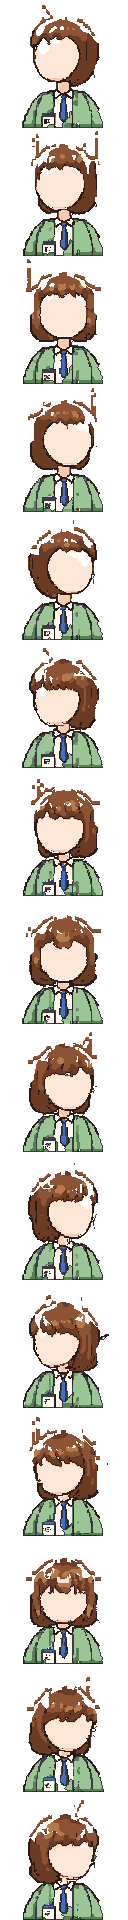
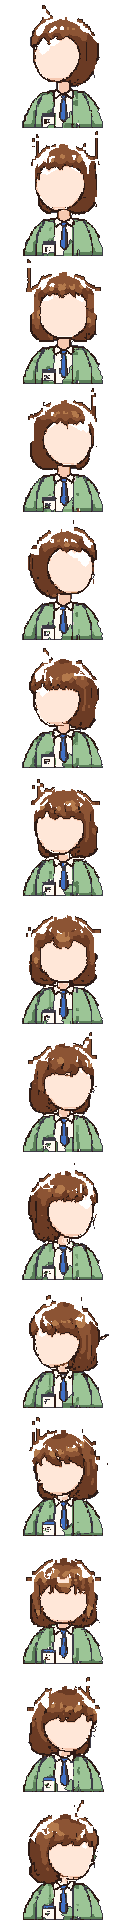
fox65: polish ear bases (outlined hairline, strand base/shadow shading), remove ear specks/slits; cache v=20261021-fox65c

diff --git a/js/app.js b/js/app.js
@@ -8,9 +8,9 @@ const canvas = $('c'), ctx = canvas.getContext('2d');
 const video = $('video');
 const off = document.createElement('canvas'), octx = off.getContext('2d');      // 원본 해상도 합성
 const hc = document.createElement('canvas'), hctx = hc.getContext('2d');        // 머리 그룹 (롤 회전용)
-import { mic, startMic, micTick } from './mic.js?v=20261021-fox65b';
-import { createTail, tailStep } from './tail.js?v=20261021-fox65b';
-import { createEars, earStep } from './ears.js?v=20261021-fox65b';
+import { mic, startMic, micTick } from './mic.js?v=20261021-fox65c';
+import { createTail, tailStep } from './tail.js?v=20261021-fox65c';
+import { createEars, earStep } from './ears.js?v=20261021-fox65c';
 const earSt = createEars(); let earLast = 0;
 const CHARS = { fox65: 'assets/fox65/', fox64: 'assets/fox64/', fox63: 'assets/fox63/', fox62: 'assets/fox62/', fox61: 'assets/fox61/', fox6: 'assets/fox6/', fox53: 'assets/fox53/', fox52: 'assets/fox52/', fox51: 'assets/fox51/', fox5: 'assets/fox5/', fox4: 'assets/fox4/', fox3: 'assets/fox3/', fox2: 'assets/fox2/', test: 'assets/test/' };
 let ch = null; // {key, base, m, img, S}

diff --git a/index.html b/index.html
@@ -1,6 +1,6 @@
 <!doctype html><html lang="ko"><head><meta charset="utf-8">
 <meta name="viewport" content="width=device-width,initial-scale=1,viewport-fit=cover">
-<title>픽셀 VTuber — 퇴근여우</title><link rel="icon" href="data:,"><link rel="stylesheet" href="style.css?v=20261021-fox65b"></head><body>
+<title>픽셀 VTuber — 퇴근여우</title><link rel="icon" href="data:,"><link rel="stylesheet" href="style.css?v=20261021-fox65c"></head><body>
 <div id="stage"><canvas id="c" width="96" height="96"></canvas></div>
 <div id="hud"><span id="fps">FPS: -</span> <span id="status">대기 중</span> <span id="pose"></span><div id="meter" hidden>신남 <span class="track"><span id="meterBar"></span></span></div></div>
 <video id="video" playsinline muted autoplay></video>
@@ -26,4 +26,4 @@
  <button id="clean">클린 뷰 (OBS용)</button>
  <p class="hint">단축키: 1 자동 · 2 웃음 · 3 피곤 · 4 놀람 · 5 의기양양 · h 클린 뷰 · Esc/더블탭 해제</p>
 </div>
-<script type="module" src="js/app.js?v=20261021-fox65b"></script></body></html>
+<script type="module" src="js/app.js?v=20261021-fox65c"></script></body></html>
